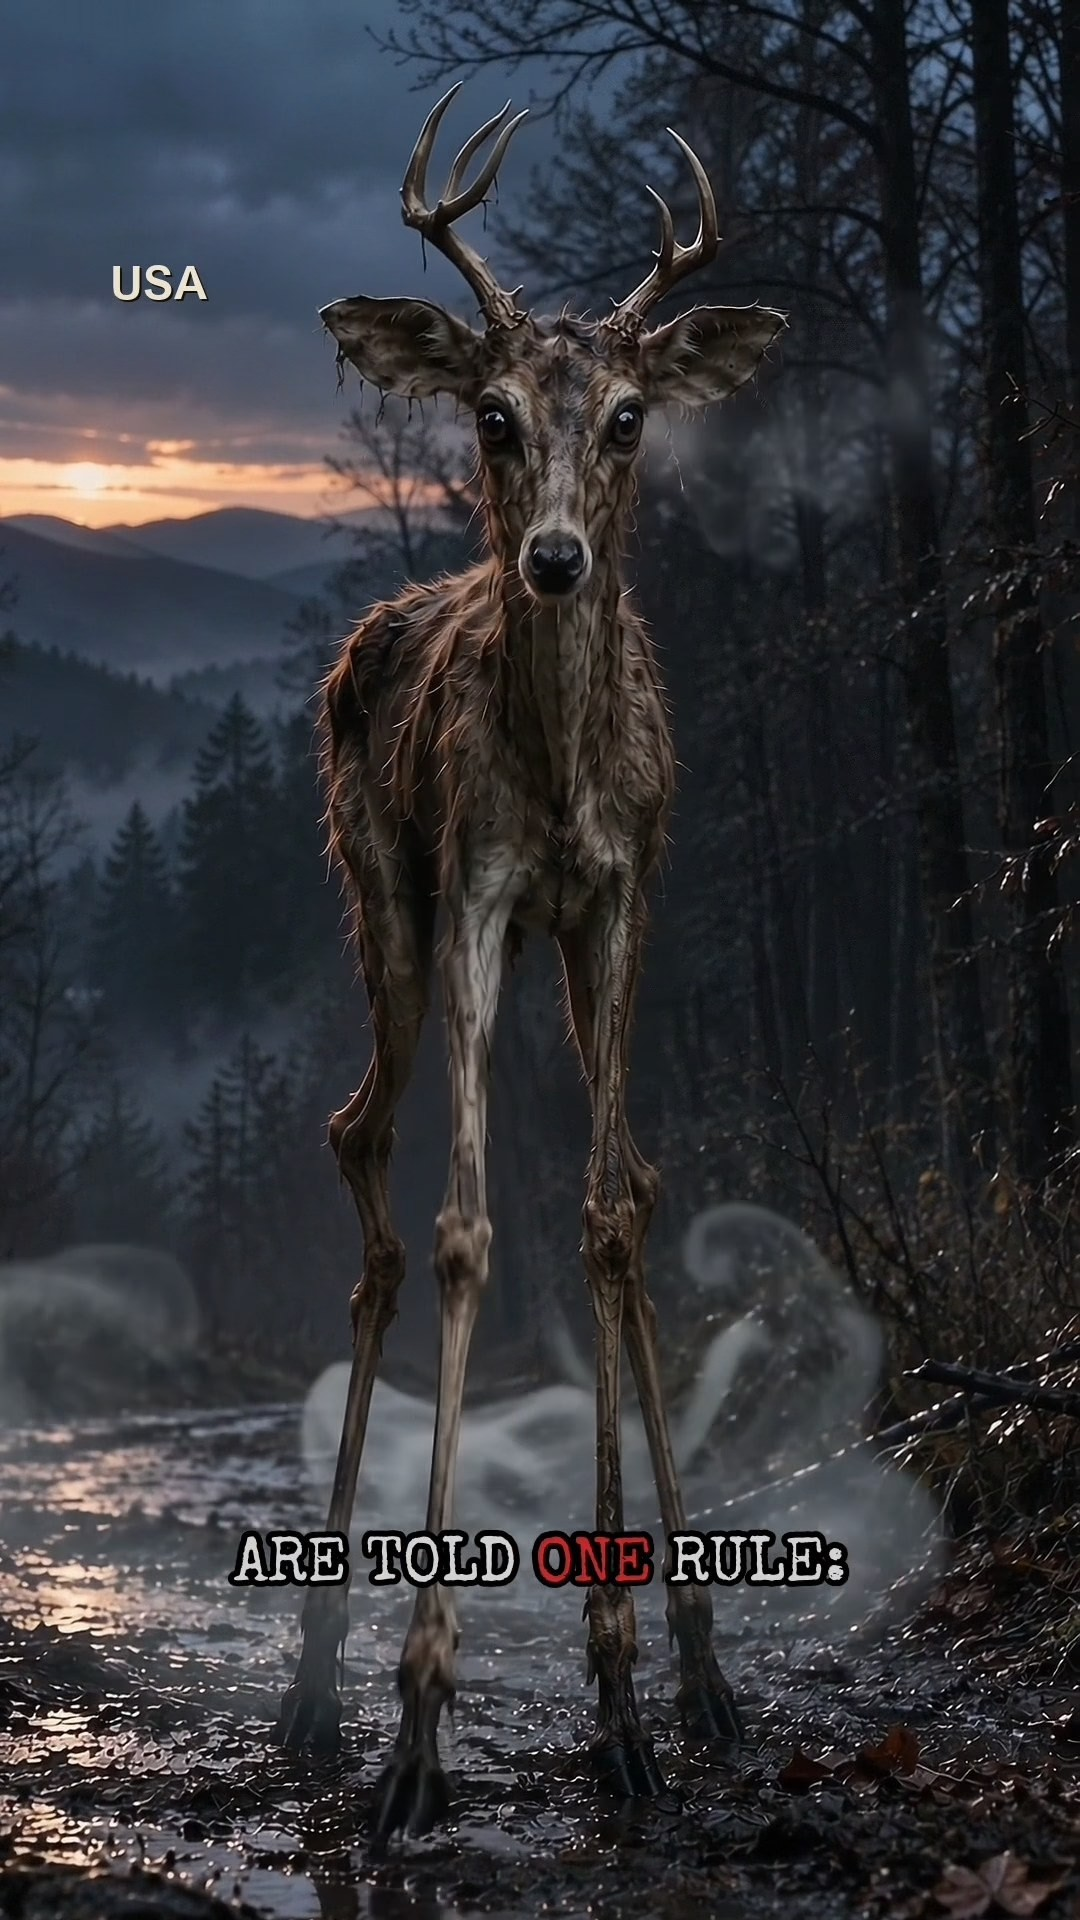
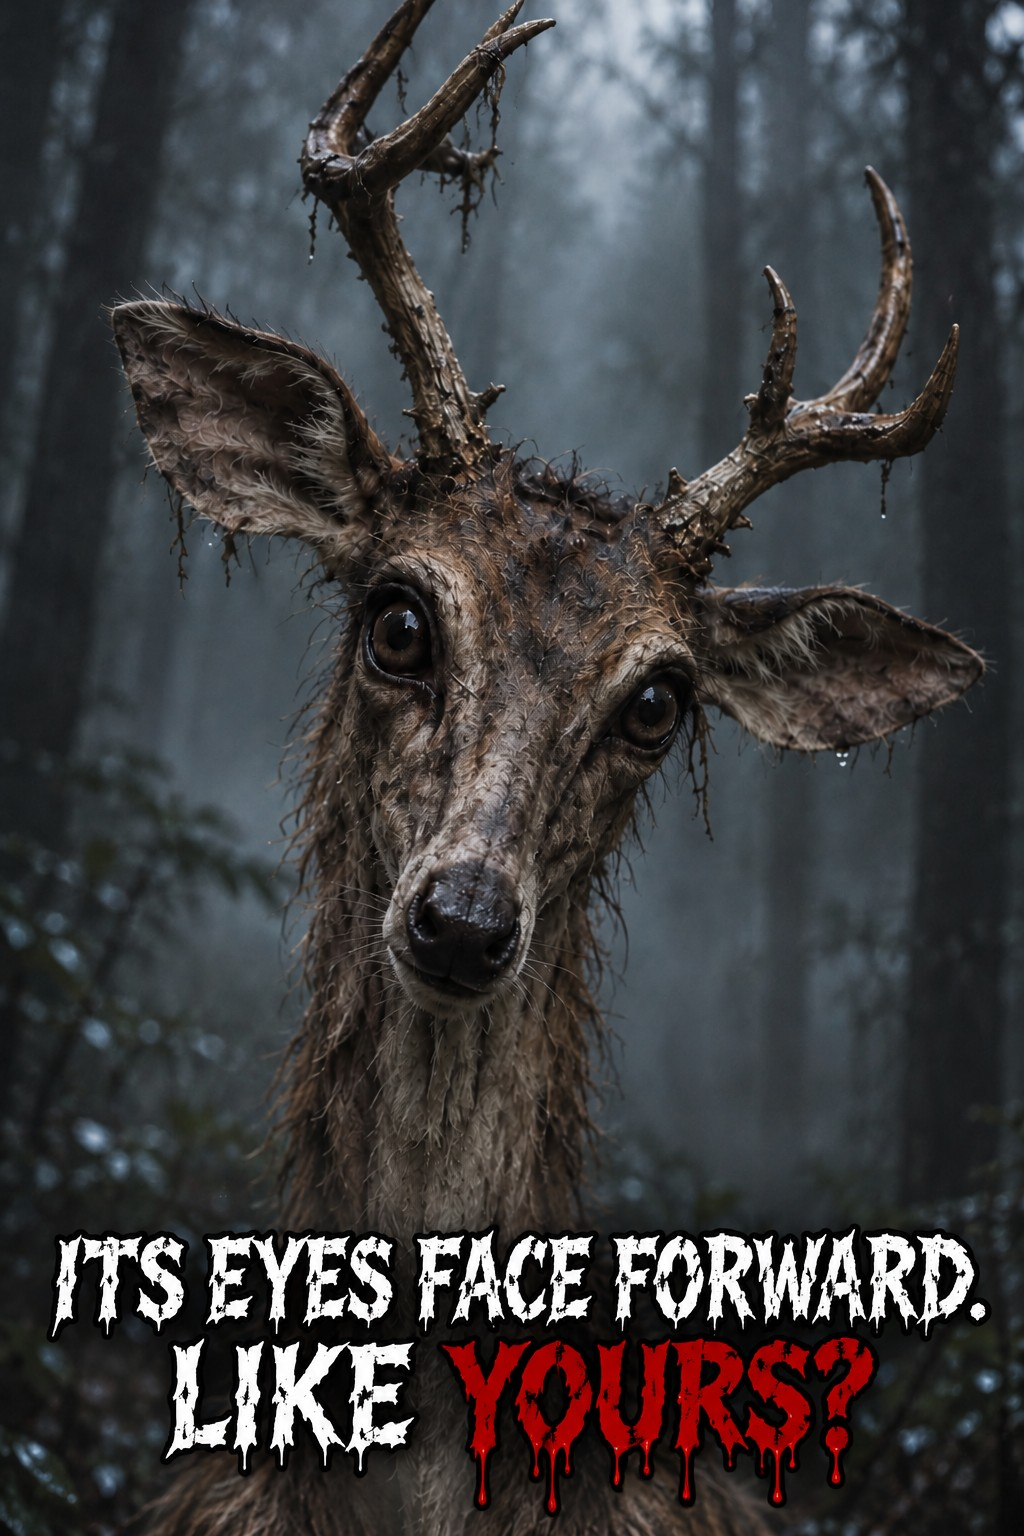
trio posters fixed 2026-11-22: classes + new thumbs

diff --git a/thumb-audit.html b/thumb-audit.html
@@ -27,11 +27,11 @@ textarea{width:100%;box-sizing:border-box;margin-top:7px;background:#0d0d0d;colo
 #modal textarea{width:100%;height:70vh;background:#000;color:#0f0}
 </style></head><body>
 <h1>Аудит тамбнейлов Shorts — фактические тамбы с YouTube (22.11.2026)</h1>
-<p class="sub">89 шортсов: постеров с надписью — 85, кадров с вшитыми сабами — 4 (трио живого интро + Night Hag-тест), голых кадров без текста — 0. Клик по картинке — зум. Комментарии сохраняются в этом браузере.</p>
+<p class="sub">89 шортсов: постеров с надписью — 88, кадр с вшитыми сабами — 1 (тест Night Hag), голых кадров без текста — 0. Трио живого интро на снимках ниже — уже с новыми постерами (22.11). Клик по картинке — зум. Комментарии сохраняются в этом браузере.</p>
 <div class="filters">
 <button class="on" onclick="flt('all',this)">Все (89)</button>
-<button onclick="flt('poster',this)">Постеры (85)</button>
-<button onclick="flt('subs',this)">Кадры с сабами (4)</button>
+<button onclick="flt('poster',this)">Постеры (88)</button>
+<button onclick="flt('subs',this)">Кадры с сабами (1)</button>
 </div>
 <div class="grid">
 <div class="card" data-cls="poster">
@@ -139,25 +139,25 @@ textarea{width:100%;box-sizing:border-box;margin-top:7px;background:#0d0d0d;colo
 <div class="note">тестовый ролик Night Hag: кадр с караоке-сабами вместо постера</div>
 <textarea data-k="audit_AQx947alnJU" placeholder="Комментарий..."></textarea>
 </div>
-<div class="card" data-cls="subs">
+<div class="card" data-cls="poster">
 <img src="thumbs/DDlfyluWBwo.jpg" alt="DDlfyluWBwo" loading="lazy" onclick="zoom(this)">
 <div class="ttl">If a Deer Stares at You With Both Eyes, It Is Not a Deer</div>
-<div class="meta"><span class="id">DDlfyluWBwo</span><span class="badge" style="background:#c62828">КАДР С САБАМИ</span></div>
-<div class="note">трио живого интро: кадр финала с бейджем USA и сабами — заменяется новым постером (задача trio-posters)</div>
+<div class="meta"><span class="id">DDlfyluWBwo</span><span class="badge" style="background:#2e7d32">ПОСТЕР</span></div>
+<div class="note">БЫЛ кадр с сабами; 22.11.2026 заменён новым канонным постером (задача trio-posters)</div>
 <textarea data-k="audit_DDlfyluWBwo" placeholder="Комментарий..."></textarea>
 </div>
-<div class="card" data-cls="subs">
+<div class="card" data-cls="poster">
 <img src="thumbs/6wUSmS9Ul4Q.jpg" alt="6wUSmS9Ul4Q" loading="lazy" onclick="zoom(this)">
 <div class="ttl">If You Knock Three Times, Hanako-san Will Answer</div>
-<div class="meta"><span class="id">6wUSmS9Ul4Q</span><span class="badge" style="background:#c62828">КАДР С САБАМИ</span></div>
-<div class="note">трио живого интро: кадр финала с бейджем JAPAN и сабами — заменяется новым постером</div>
+<div class="meta"><span class="id">6wUSmS9Ul4Q</span><span class="badge" style="background:#2e7d32">ПОСТЕР</span></div>
+<div class="note">БЫЛ кадр с сабами; 22.11.2026 заменён новым канонным постером (задача trio-posters)</div>
 <textarea data-k="audit_6wUSmS9Ul4Q" placeholder="Комментарий..."></textarea>
 </div>
-<div class="card" data-cls="subs">
+<div class="card" data-cls="poster">
 <img src="thumbs/6IHG0Yp41GM.jpg" alt="6IHG0Yp41GM" loading="lazy" onclick="zoom(this)">
 <div class="ttl">Yuki-onna, yokai, urban legend, horror story, scary stories, horror shorts, Japanese folklore</div>
-<div class="meta"><span class="id">6IHG0Yp41GM</span><span class="badge" style="background:#c62828">КАДР С САБАМИ</span></div>
-<div class="note">трио живого интро: кадр финала с бейджем JAPAN и сабами — заменяется новым постером</div>
+<div class="meta"><span class="id">6IHG0Yp41GM</span><span class="badge" style="background:#2e7d32">ПОСТЕР</span></div>
+<div class="note">БЫЛ кадр с сабами; 22.11.2026 заменён новым канонным постером (задача trio-posters)</div>
 <textarea data-k="audit_6IHG0Yp41GM" placeholder="Комментарий..."></textarea>
 </div>
 <div class="card" data-cls="poster">
